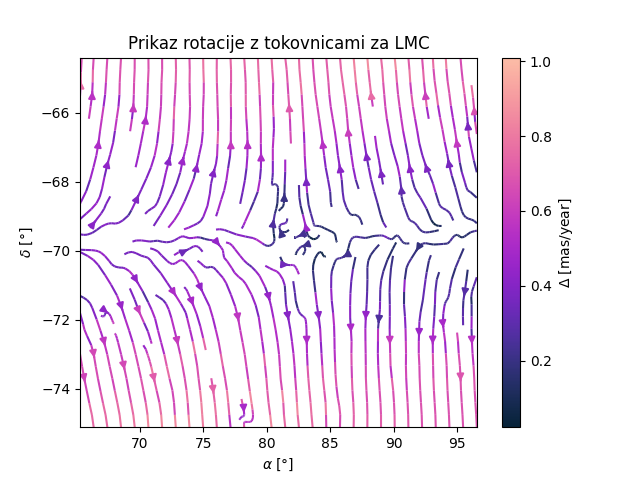
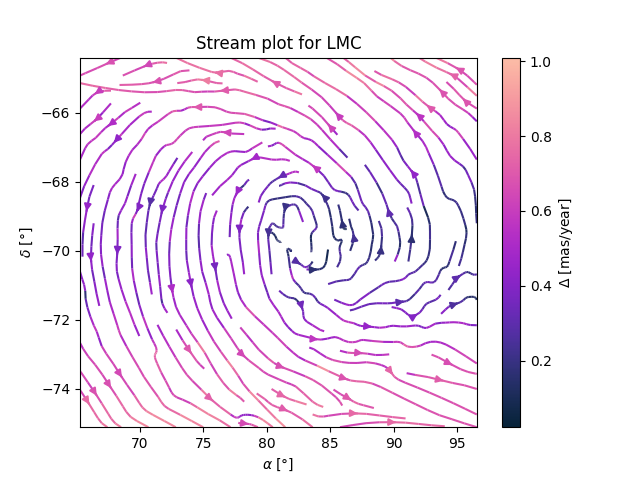
Stream plots

Changed region(s): [[0.125, 0.0625, 0.75, 0.9062]]

diff --git a/DN2/main_SMC.py b/DN2/main_SMC.py
@@ -1,6 +1,7 @@
 import numpy as np
 import matplotlib.pyplot as plt
 import cmasher as cmr
+from scipy.interpolate import griddata
 
 c1, c2, c3 = cmr.take_cmap_colors("cmr.gothic", 3, cmap_range=(0.2, 0.8), return_fmt="hex")
 
@@ -28,28 +29,67 @@ ra_f = np.take(ra, filt)
 dec_f = np.take(dec, filt)
 pmra_f = np.take(pmra, filt)
 pmdec_f = np.take(pmdec, filt)
+pmra_n = pmra_f - np.median(pmra_f)
+pmdec_n = pmdec_f - np.median(pmdec_f)
+print(len(pmdec_n))
+C = np.hypot(pmra_n, pmdec_n)
 
 
 # ---- Proper motion filter plot ----
-plt.scatter(pmra, pmdec, s=2, c=c1, label="Noise")
-plt.scatter(pmra_f, pmdec_f, s=1, c="#ADF1D2", label="SMC stars")
-plt.xlim(-0.25, 1.75)
-plt.ylim(-2, -0.25)
-plt.title("Filtering by proper motion")
-plt.xlabel(r"$\Delta\alpha$ [mas/year]")
-plt.ylabel(r"$\Delta\delta$ [mas/year]")
-plt.legend()
-plt.show()
+# plt.scatter(pmra, pmdec, s=2, c=c1, label="Noise")
+# plt.scatter(pmra_f, pmdec_f, s=1, c="#ADF1D2", label="SMC stars")
+# plt.xlim(-0.25, 1.75)
+# plt.ylim(-2, -0.25)
+# plt.title("Filtering by proper motion")
+# plt.xlabel(r"$\Delta\alpha$ [mas/year]")
+# plt.ylabel(r"$\Delta\delta$ [mas/year]")
+# plt.legend()
+# plt.show()
 
 # ---- Proper motion quiver plot ----
-pmra_n = pmra_f - np.median(pmra_f)
-pmdec_n = pmdec_f - np.median(pmdec_f)
+# plt.quiver(ra_f, dec_f, pmra_n, pmdec_n, C, width=0.004, scale=5, cmap="cmr.bubblegum", alpha=0.6)
+# plt.xlabel(r"$\alpha$ [$\degree$]")
+# plt.ylabel(r"$\delta$ [$\degree$]")
+# plt.title("Rotation of SMC")
+# plt.colorbar(label=r"$\Delta$ [mas/year]")
+# plt.show()
 
-C = np.hypot(pmra_n, pmdec_n)
+# ---- Stream plot code snippet from Ema with additions ----
+fig, ax = plt.subplots()
+x = ra_f
+y = dec_f
+u = pmra_n
+v = pmdec_n
 
-plt.quiver(ra_f, dec_f, pmra_n, pmdec_n, C, width=0.004, scale=5, cmap="cmr.bubblegum", alpha=0.6)
+# resample onto a 50x50 grid
+nx, ny = 90, 90
+
+# (N, 2) arrays of input x,y coords and u,v values
+pts = np.vstack((x, y)).T
+vals = np.vstack((u, v)).T
+
+# the new x and y coordinates for the grid, which will correspond to the
+# columns and rows of u and v respectively
+xi = np.linspace(x.min(), x.max(), nx)
+yi = np.linspace(y.min(), y.max(), ny)
+
+# an (nx * ny, 2) array of x,y coordinates to interpolate at
+ipts = np.vstack(a.ravel() for a in np.meshgrid(yi, xi)[::-1]).T
+
+# an (nx * ny, 2) array of interpolated u, v values
+ivals = griddata(pts, vals, ipts, method='nearest')
+
+# reshape interpolated u,v values into (ny, nx) arrays
+ui, vi = ivals.T
+ui.shape = vi.shape = (ny, nx)
+grid_C = np.hypot(ui, vi)
+
+# plot
+# fig, ax = plt.subplots(1, 1)
+# ax.hold(True)
+plt.streamplot(xi, yi, ui, vi, color=grid_C, cmap="cmr.bubblegum")
+plt.title("Stream plot for SMC")
 plt.xlabel(r"$\alpha$ [$\degree$]")
 plt.ylabel(r"$\delta$ [$\degree$]")
-plt.title("Rotation of SMC")
 plt.colorbar(label=r"$\Delta$ [mas/year]")
 plt.show()

diff --git a/DN2/main_LMC.py b/DN2/main_LMC.py
@@ -105,12 +105,12 @@ C = np.hypot(pmra_n, pmdec_n)
 # plt.streamplot(X, Y, movement_ra, movement_dec, color=C, cmap="cmr.bubblegum")
 # plt.show()
 
-# ---- Stream plot code snippet from Ema ----
+# ---- Stream plot code snippet from Ema with additions ----
 fig, ax = plt.subplots()
-x = np.array(ra_f)
-y = np.array(dec_f)
-u = pmra_n
-v = pmdec_n
+x = ra_f
+y = dec_f
+v = pmra_n
+u = pmdec_n
 
 # resample onto a 50x50 grid
 nx, ny = 50, 50
@@ -138,8 +138,8 @@ grid_C = np.hypot(ui, vi)
 # plot
 # fig, ax = plt.subplots(1, 1)
 # ax.hold(True)
-plt.streamplot(xi, yi, ui, vi, color=grid_C, cmap="cmr.bubblegum")
-plt.title("Prikaz rotacije z tokovnicami za LMC")
+plt.streamplot(xi, yi, -ui, -vi, color=grid_C, cmap="cmr.bubblegum")
+plt.title("Stream plot for LMC")
 plt.xlabel(r"$\alpha$ [$\degree$]")
 plt.ylabel(r"$\delta$ [$\degree$]")
 plt.colorbar(label=r"$\Delta$ [mas/year]")
